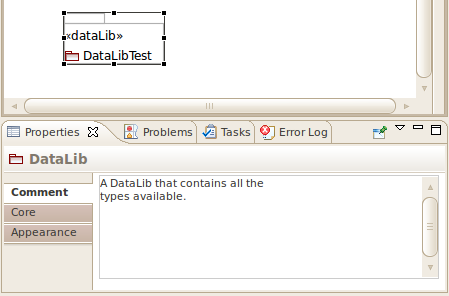
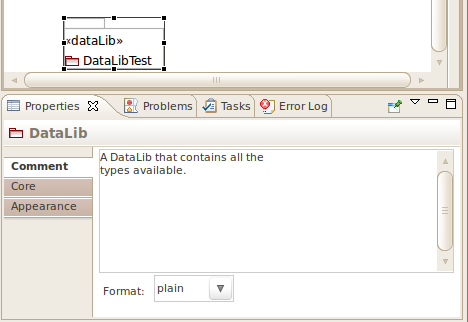
Mon Mar 14 12:29:42 UTC 2011  Byron Harris  <harrisb@ociweb.com>
git-svn-id: svn://svn.dre.vanderbilt.edu/DOC/DDS@4396 1d620576-631a-0410-9fb9-985d35bca4c5

diff --git a/trunk/tools/modeling/plugins/org.opendds.modeling.help/html/modeling/tasks/diagrams/adding_comments.html b/trunk/tools/modeling/plugins/org.opendds.modeling.help/html/modeling/tasks/diagrams/adding_comments.html
@@ -21,7 +21,10 @@
   in the sheet. An example is shown below.</p>
   
   <img alt="Comment example" src="../../images/element_comment_example.png">
-  
+
+  <p>Below the comment is a drop-down box to indicate if the format of the comment is plain text or
+  should be mapped to the C++ source code as a <a href="http://www.doxygen.org/">Doxygen</a> comment.</p>
+    
   <p>A comment can also be associated with a diagram itself. If you click on an empty portion of the diagram
   you will see the Comment tab in the property sheet. For the main diagram the comment applies to the model
   itself. For library diagrams the comment applies to the library.</p>

diff --git a/trunk/tools/modeling/plugins/org.opendds.modeling.common/src/org/opendds/modeling/common/gmf/ElementCommentPropertySection.java b/trunk/tools/modeling/plugins/org.opendds.modeling.common/src/org/opendds/modeling/common/gmf/ElementCommentPropertySection.java
@@ -16,6 +16,10 @@ import org.eclipse.gmf.runtime.diagram.ui.properties.sections.AbstractBasicTextP
 import org.eclipse.gmf.runtime.diagram.ui.properties.views.TextChangeHelper;
 import org.eclipse.gmf.runtime.notation.View;
 import org.eclipse.swt.SWT;
+import org.eclipse.swt.custom.CCombo;
+import org.eclipse.swt.custom.CLabel;
+import org.eclipse.swt.events.FocusEvent;
+import org.eclipse.swt.events.FocusListener;
 import org.eclipse.swt.layout.FormAttachment;
 import org.eclipse.swt.layout.FormData;
 import org.eclipse.swt.widgets.Composite;
@@ -24,12 +28,15 @@ import org.eclipse.swt.widgets.Event;
 import org.eclipse.swt.widgets.Text;
 import org.eclipse.ui.IWorkbenchPart;
 import org.eclipse.ui.PlatformUI;
+import org.eclipse.ui.views.properties.tabbed.ITabbedPropertyConstants;
+import org.eclipse.ui.views.properties.tabbed.TabbedPropertySheetPage;
 import org.opendds.modeling.model.core.Comment;
+import org.opendds.modeling.model.core.CommentFormat;
 import org.opendds.modeling.model.core.CorePackage;
 import org.opendds.modeling.model.core.Element;
 
 /**
- * Based on code given in Eclipse Modeling Project, 4.4, page 142.
+ * Based on org.eclipse.gmf.runtime.diagram.ui.properties.sections.DiagramGeneralSection
  * @generated NOT
  */
 public class ElementCommentPropertySection extends
@@ -74,6 +81,66 @@ public class ElementCommentPropertySection extends
 
 	private MultilineTextChangeHelper multilineListener = new MultilineTextChangeHelper();
 
+	private CLabel formatLabel;
+
+	private CCombo formatCombo;
+
+	private synchronized void setCommentFormat() {
+		if (formatCombo != null) {
+			Element element = (Element) getEObject();
+			CommentFormat format = CommentFormat.get(formatCombo
+					.getSelectionIndex());
+			getComment(element, format);
+		}
+	}
+
+	@Override
+	public void doCreateControls(Composite parent,
+			TabbedPropertySheetPage aTabbedPropertySheetPage) {
+		super.doCreateControls(parent, aTabbedPropertySheetPage);
+		doCreateFormatCombo();
+	}
+
+	private void doCreateFormatCombo() {
+		FormData data;
+
+		// Text label for combo box
+		formatLabel = getWidgetFactory().createCLabel(getSectionComposite(),
+		"Format:");
+		data = new FormData();
+		data.top = new FormAttachment(getTextWidget(), ITabbedPropertyConstants.VSPACE, SWT.BOTTOM);
+		data.bottom = new FormAttachment(100, 0);
+		formatLabel.setLayoutData(data);
+
+		// Combo box
+		formatCombo = getWidgetFactory().createCCombo(getSectionComposite());
+		CommentFormat[] formatValues = CommentFormat.values();
+		int i = 0;
+		String[] options = new String[formatValues.length];
+		for (CommentFormat formatValue : formatValues) {
+			options[i++] = formatValue.name().toLowerCase();
+		}
+		formatCombo.setItems(options);
+		formatCombo.pack();
+		data = new FormData();
+		data.left = new FormAttachment(formatLabel, 0, SWT.RIGHT);
+		data.bottom = new FormAttachment(100, 0);
+		formatCombo.setLayoutData(data);
+
+		formatCombo.addFocusListener(new FocusListener() {
+
+			@Override
+			public void focusLost(FocusEvent e) {
+				setCommentFormat();
+			}
+
+			@Override
+			public void focusGained(FocusEvent e) {
+			}
+		});
+
+	}
+
 	@Override
 	protected String getPropertyChangeCommandName() {
 		return "ElementDescriptionChangeCommand";
@@ -93,28 +160,19 @@ public class ElementCommentPropertySection extends
 	}
 
 	@Override
+	protected void setPropertyValue(Control control) {
+		if (control == getTextWidget())
+			super.setPropertyValue(control);
+		else
+			setCommentFormat();
+
+	}
+
+	@Override
 	protected void setPropertyValue(EObject object,
 			Object value) {
 		Element element = (Element) getEObject();
-		Comment comment = element.getComment();
-		if (element.getComment() == null) {
-			// The comment is an optional reference, so create one
-			// to have a place to put the value in.
-			EPackage ePackage = EPackage.Registry.INSTANCE
-					.getEPackage(CorePackage.eNS_URI);
-			EFactory factory = ePackage.getEFactoryInstance();
-			EClass commentClass = (EClass) ePackage.getEClassifier("Comment");
-			EStructuralFeature commentRef = element.eClass()
-					.getEStructuralFeature("comment");
-			comment = (Comment) factory.create(commentClass);
-
-			// Need to add the comment reference to the element inside a transaction.
-			TransactionalEditingDomain editingDomain = getEditingDomain();
-			SetCommand command = new SetCommand(editingDomain, element,
-					commentRef, comment);
-			assert command.canExecute();
-			editingDomain.getCommandStack().execute(command);
-		}
+		Comment comment = getComment(element, CommentFormat.PLAIN);
 		comment.setBody((String) value);
 	}
 
@@ -126,14 +184,23 @@ public class ElementCommentPropertySection extends
 		data.left = new FormAttachment(0, 0);
 		data.right = new FormAttachment(100, 0);
 		data.top = new FormAttachment(0, 0);
-		data.bottom = new FormAttachment(100, 0);
-		data.height = 100;
-		data.width = 100;
+		data.bottom = new FormAttachment(80, 0);
 		text.setLayoutData(data);
 		if (isReadOnly()) {
 			text.setEditable(false);
 		}
 		return text;
+	}
+
+	protected void refreshUI() {
+		super.refreshUI();
+		Element element = (Element) getEObject();
+		Comment comment = element.getComment();
+		int enumValue = 0;
+		if (comment != null) {
+			enumValue = comment.getFormat().getValue();
+		}
+		formatCombo.select(enumValue);
 	}
 
 	@Override
@@ -164,6 +231,34 @@ public class ElementCommentPropertySection extends
 	@Override
 	protected TextChangeHelper getListener() {
 		return multilineListener;
+	}
+
+	/**
+	 * Get the comment for an Element. If necessary
+	 * create the comment if it doesn't exist.
+	 * @param format The format to use if a Comment is being created.
+	 */
+	private Comment getComment(Element element, CommentFormat format) {
+		Comment comment = element.getComment();
+		if (element.getComment() == null) {
+
+			EFactory factory = element.eClass().getEPackage()
+					.getEFactoryInstance();
+			EPackage ePackage = EPackage.Registry.INSTANCE
+					.getEPackage(CorePackage.eNS_URI);
+			EClass commentClass = (EClass) ePackage.getEClassifier("Comment");
+			EStructuralFeature commentRef = element.eClass()
+					.getEStructuralFeature("comment");
+			comment = (Comment) factory.create(commentClass);
+			comment.setFormat(format);
+
+			TransactionalEditingDomain editingDomain = getEditingDomain();
+			SetCommand command = new SetCommand(editingDomain, element,
+					commentRef, comment);
+			assert command.canExecute();
+			editingDomain.getCommandStack().execute(command);
+		}
+		return comment;
 	}
 
 }
